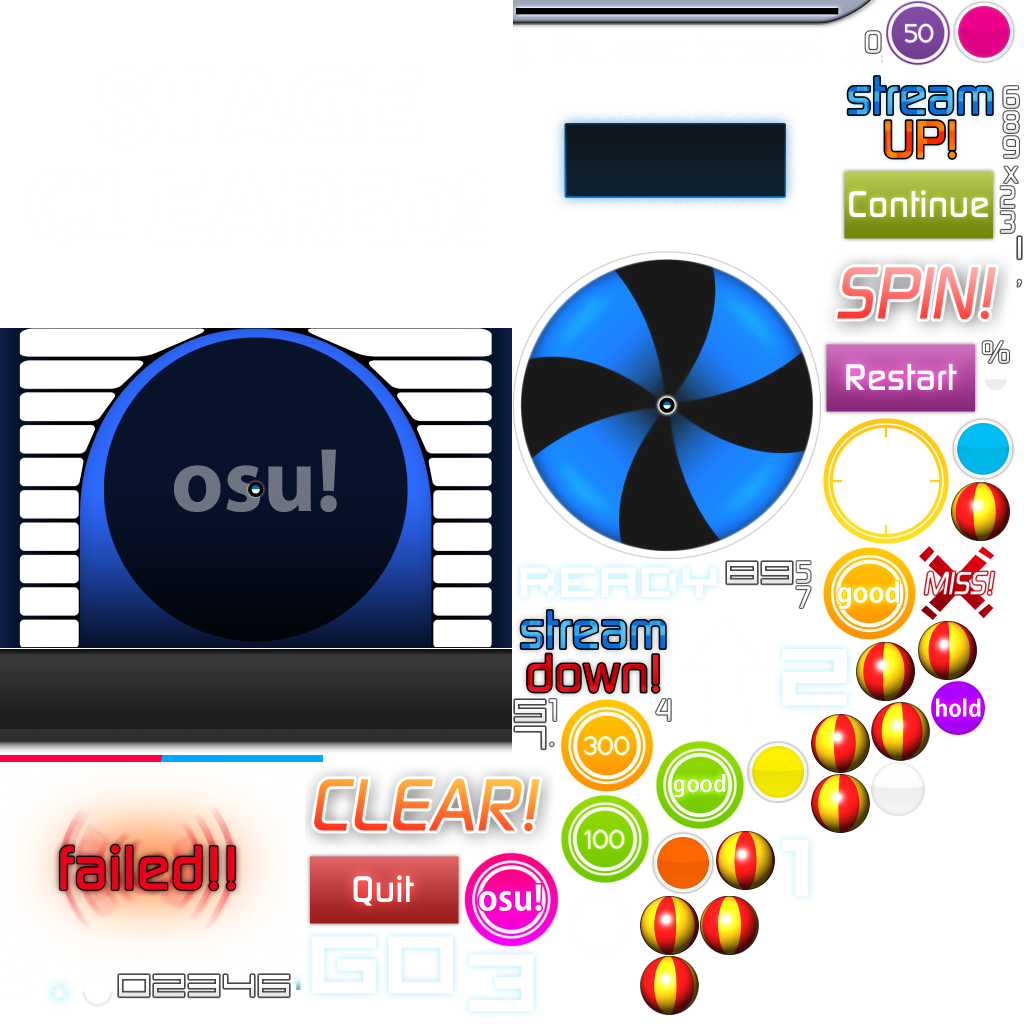
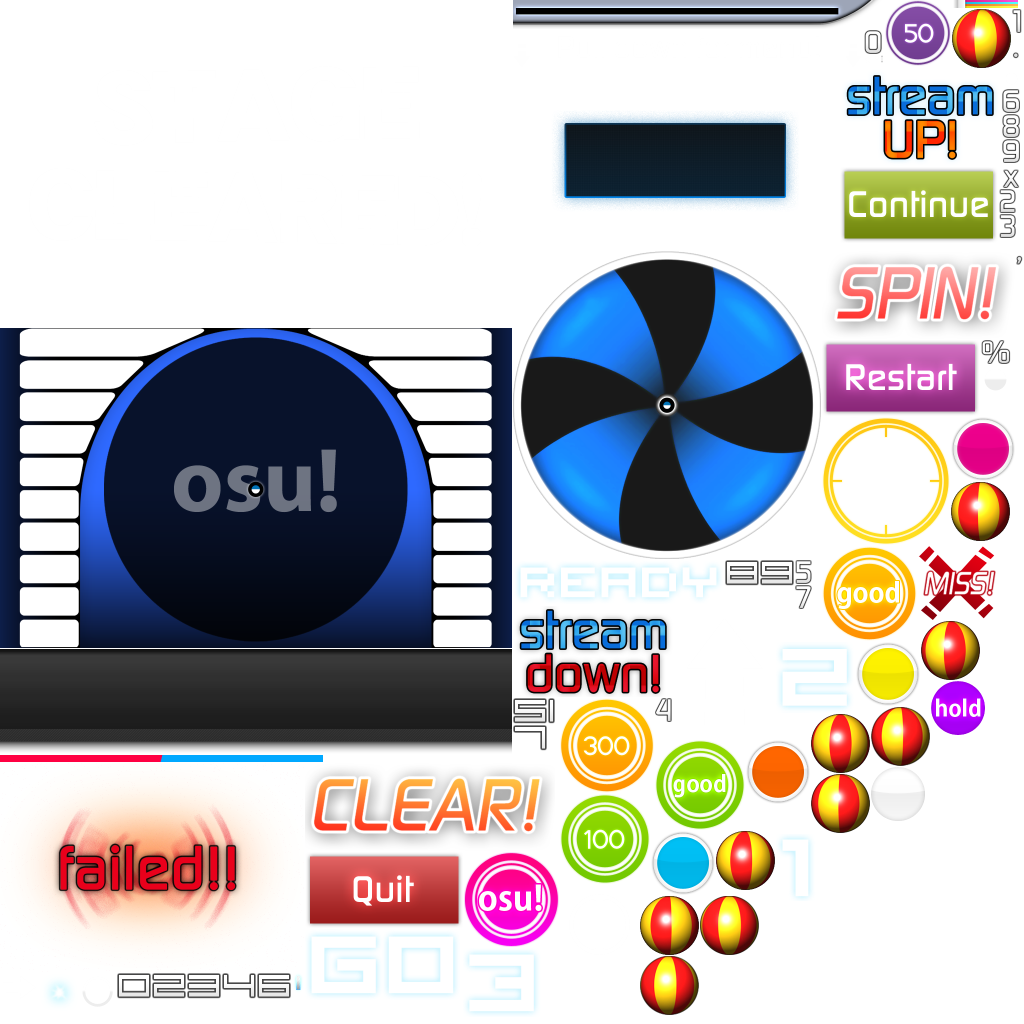
Added slider track textures to the spritesheet properly.

diff --git a/osum/Graphics/TextureManager_Load.cs b/osum/Graphics/TextureManager_Load.cs
@@ -34,21 +34,22 @@ namespace osum.Graphics.Skins
             textureLocations.Add(OsuTexture.countdown_3, new SpriteSheetTexture("hit", 926, 1896, 158, 138));
             textureLocations.Add(OsuTexture.hit0, new SpriteSheetTexture("hit", 1836, 1092, 156, 148));
             textureLocations.Add(OsuTexture.hit50, new SpriteSheetTexture("hit", 1770, 0, 132, 132));
-            textureLocations.Add(OsuTexture.hitcircle0, new SpriteSheetTexture("hit", 1904, 0, 128, 128));
-            textureLocations.Add(OsuTexture.hitcircle1, new SpriteSheetTexture("hit", 1902, 834, 128, 128));
-            textureLocations.Add(OsuTexture.hitcircle2, new SpriteSheetTexture("hit", 1302, 1662, 128, 128));
-            textureLocations.Add(OsuTexture.hitcircle3, new SpriteSheetTexture("hit", 1492, 1480, 128, 128));
-            textureLocations.Add(OsuTexture.sliderb_0, new SpriteSheetTexture("hit", 1902, 964, 118, 118));
-            textureLocations.Add(OsuTexture.sliderb_1, new SpriteSheetTexture("hit", 1712, 1284, 118, 118));
-            textureLocations.Add(OsuTexture.sliderb_2, new SpriteSheetTexture("hit", 1836, 1242, 118, 118));
-            textureLocations.Add(OsuTexture.sliderb_3, new SpriteSheetTexture("hit", 1280, 1792, 118, 118));
-            textureLocations.Add(OsuTexture.sliderb_4, new SpriteSheetTexture("hit", 1432, 1662, 118, 118));
-            textureLocations.Add(OsuTexture.sliderb_5, new SpriteSheetTexture("hit", 1622, 1428, 118, 118));
+            textureLocations.Add(OsuTexture.tracks, new SpriteSheetTexture("hit", 1904, 0, 132, 16));
+            textureLocations.Add(OsuTexture.hitcircle0, new SpriteSheetTexture("hit", 1902, 834, 128, 128));
+            textureLocations.Add(OsuTexture.hitcircle1, new SpriteSheetTexture("hit", 1302, 1662, 128, 128));
+            textureLocations.Add(OsuTexture.hitcircle2, new SpriteSheetTexture("hit", 1492, 1480, 128, 128));
+            textureLocations.Add(OsuTexture.hitcircle3, new SpriteSheetTexture("hit", 1712, 1284, 128, 128));
+            textureLocations.Add(OsuTexture.sliderb_0, new SpriteSheetTexture("hit", 1904, 18, 118, 118));
+            textureLocations.Add(OsuTexture.sliderb_1, new SpriteSheetTexture("hit", 1902, 964, 118, 118));
+            textureLocations.Add(OsuTexture.sliderb_2, new SpriteSheetTexture("hit", 1280, 1792, 118, 118));
+            textureLocations.Add(OsuTexture.sliderb_3, new SpriteSheetTexture("hit", 1432, 1662, 118, 118));
+            textureLocations.Add(OsuTexture.sliderb_4, new SpriteSheetTexture("hit", 1622, 1428, 118, 118));
+            textureLocations.Add(OsuTexture.sliderb_5, new SpriteSheetTexture("hit", 1842, 1242, 118, 118));
             textureLocations.Add(OsuTexture.sliderb_6, new SpriteSheetTexture("hit", 1622, 1548, 118, 118));
-            textureLocations.Add(OsuTexture.sliderb_7, new SpriteSheetTexture("hit", 1742, 1404, 118, 118));
+            textureLocations.Add(OsuTexture.sliderb_7, new SpriteSheetTexture("hit", 1742, 1414, 118, 118));
             textureLocations.Add(OsuTexture.sliderb_8, new SpriteSheetTexture("hit", 1280, 1912, 118, 118));
             textureLocations.Add(OsuTexture.sliderb_9, new SpriteSheetTexture("hit", 1400, 1792, 118, 118));
-            textureLocations.Add(OsuTexture.holdactive, new SpriteSheetTexture("hit", 1742, 1524, 108, 108));
+            textureLocations.Add(OsuTexture.holdactive, new SpriteSheetTexture("hit", 1742, 1534, 108, 108));
             textureLocations.Add(OsuTexture.holdinactive, new SpriteSheetTexture("hit", 1862, 1362, 108, 108));
             textureLocations.Add(OsuTexture.countdown_1, new SpriteSheetTexture("hit", 1552, 1668, 86, 134));
             textureLocations.Add(OsuTexture.sliderarrow, new SpriteSheetTexture("hit", 0, 1946, 78, 58));
@@ -66,22 +67,22 @@ namespace osum.Graphics.Skins
             textureLocations.Add(OsuTexture.score_percent, new SpriteSheetTexture("hit", 1962, 680, 60, 48));
             textureLocations.Add(OsuTexture.finger_inner, new SpriteSheetTexture("hit", 1962, 730, 58, 58));
             textureLocations.Add(OsuTexture.score_0, new SpriteSheetTexture("hit", 1726, 60, 42, 48));
-            textureLocations.Add(OsuTexture.mouse_burst, new SpriteSheetTexture("hit", 2004, 130, 38, 38));
-            textureLocations.Add(OsuTexture.score_6, new SpriteSheetTexture("hit", 2004, 170, 36, 48));
-            textureLocations.Add(OsuTexture.score_8, new SpriteSheetTexture("hit", 2004, 220, 36, 48));
-            textureLocations.Add(OsuTexture.score_9, new SpriteSheetTexture("hit", 2004, 270, 36, 48));
-            textureLocations.Add(OsuTexture.score_x, new SpriteSheetTexture("hit", 2004, 320, 36, 48));
-            textureLocations.Add(OsuTexture.score_2, new SpriteSheetTexture("hit", 1998, 370, 34, 48));
-            textureLocations.Add(OsuTexture.score_3, new SpriteSheetTexture("hit", 1998, 420, 34, 48));
+            textureLocations.Add(OsuTexture.mouse_burst, new SpriteSheetTexture("hit", 2004, 138, 38, 38));
+            textureLocations.Add(OsuTexture.score_6, new SpriteSheetTexture("hit", 2004, 178, 36, 48));
+            textureLocations.Add(OsuTexture.score_8, new SpriteSheetTexture("hit", 2004, 228, 36, 48));
+            textureLocations.Add(OsuTexture.score_9, new SpriteSheetTexture("hit", 2004, 278, 36, 48));
+            textureLocations.Add(OsuTexture.score_x, new SpriteSheetTexture("hit", 2004, 328, 36, 48));
+            textureLocations.Add(OsuTexture.score_2, new SpriteSheetTexture("hit", 1998, 378, 34, 48));
+            textureLocations.Add(OsuTexture.score_3, new SpriteSheetTexture("hit", 1998, 428, 34, 48));
             textureLocations.Add(OsuTexture.score_4, new SpriteSheetTexture("hit", 1310, 1396, 34, 48));
             textureLocations.Add(OsuTexture.score_5, new SpriteSheetTexture("hit", 1590, 1120, 34, 48));
             textureLocations.Add(OsuTexture.score_7, new SpriteSheetTexture("hit", 1590, 1170, 34, 48));
             textureLocations.Add(OsuTexture.scorebar_marker, new SpriteSheetTexture("hit", 584, 1946, 24, 40));
-            textureLocations.Add(OsuTexture.score_1, new SpriteSheetTexture("hit", 1096, 1396, 20, 48));
+            textureLocations.Add(OsuTexture.score_1, new SpriteSheetTexture("hit", 2024, 18, 20, 48));
             textureLocations.Add(OsuTexture.sliderscorepoint, new SpriteSheetTexture("hit", 1726, 110, 20, 18));
-            textureLocations.Add(OsuTexture.score_dot, new SpriteSheetTexture("hit", 1096, 1446, 16, 50));
-            textureLocations.Add(OsuTexture.default_1, new SpriteSheetTexture("hit", 2032, 470, 14, 52));
-            textureLocations.Add(OsuTexture.score_comma, new SpriteSheetTexture("hit", 2032, 524, 14, 52));
+            textureLocations.Add(OsuTexture.score_dot, new SpriteSheetTexture("hit", 2024, 68, 16, 50));
+            textureLocations.Add(OsuTexture.default_1, new SpriteSheetTexture("hit", 1096, 1396, 14, 52));
+            textureLocations.Add(OsuTexture.score_comma, new SpriteSheetTexture("hit", 2032, 478, 14, 52));
             textureLocations.Add(OsuTexture.followpoint, new SpriteSheetTexture("hit", 1748, 110, 12, 12));
             textureLocations.Add(OsuTexture.connectionline, new SpriteSheetTexture("hit", 1762, 110, 4, 16));
             textureLocations.Add(OsuTexture.menu_headphones, new SpriteSheetTexture("intro", 0, 0, 382, 468));

diff --git a/osum/Graphics/TextureManager.cs b/osum/Graphics/TextureManager.cs
@@ -532,7 +532,8 @@ namespace osum.Graphics.Skins
         kokoban,
         sliderbar,
         backbutton_arrows1,
-        backbutton_arrows2
+        backbutton_arrows2,
+        tracks
         
     }
 }
